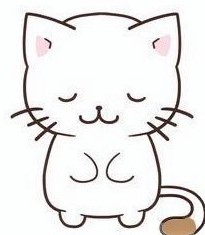
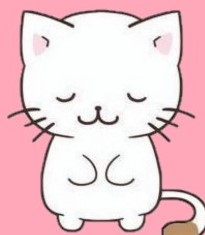
fix image

diff --git a/app/assets/stylesheets/application.css b/app/assets/stylesheets/application.css
@@ -141,11 +141,11 @@ header {
 #about img {
   margin-top: 20px;
   width: 180px;
-  height: 180px;
+  height: 230px;
   object-fit:cover;
   border: 2px solid #00473e;
 	border-radius:50%;
-	object-position: 0px -19px
+	object-position: 0px -15px
 }
 
 #about p {
@@ -599,7 +599,8 @@ padding: 0px;
 	
 	#about img {
 	  width: 130px;
-  height: 130px;
+    height: 180px;
+    object-position: 0px -10px
 	}
 	
 	#about p {
